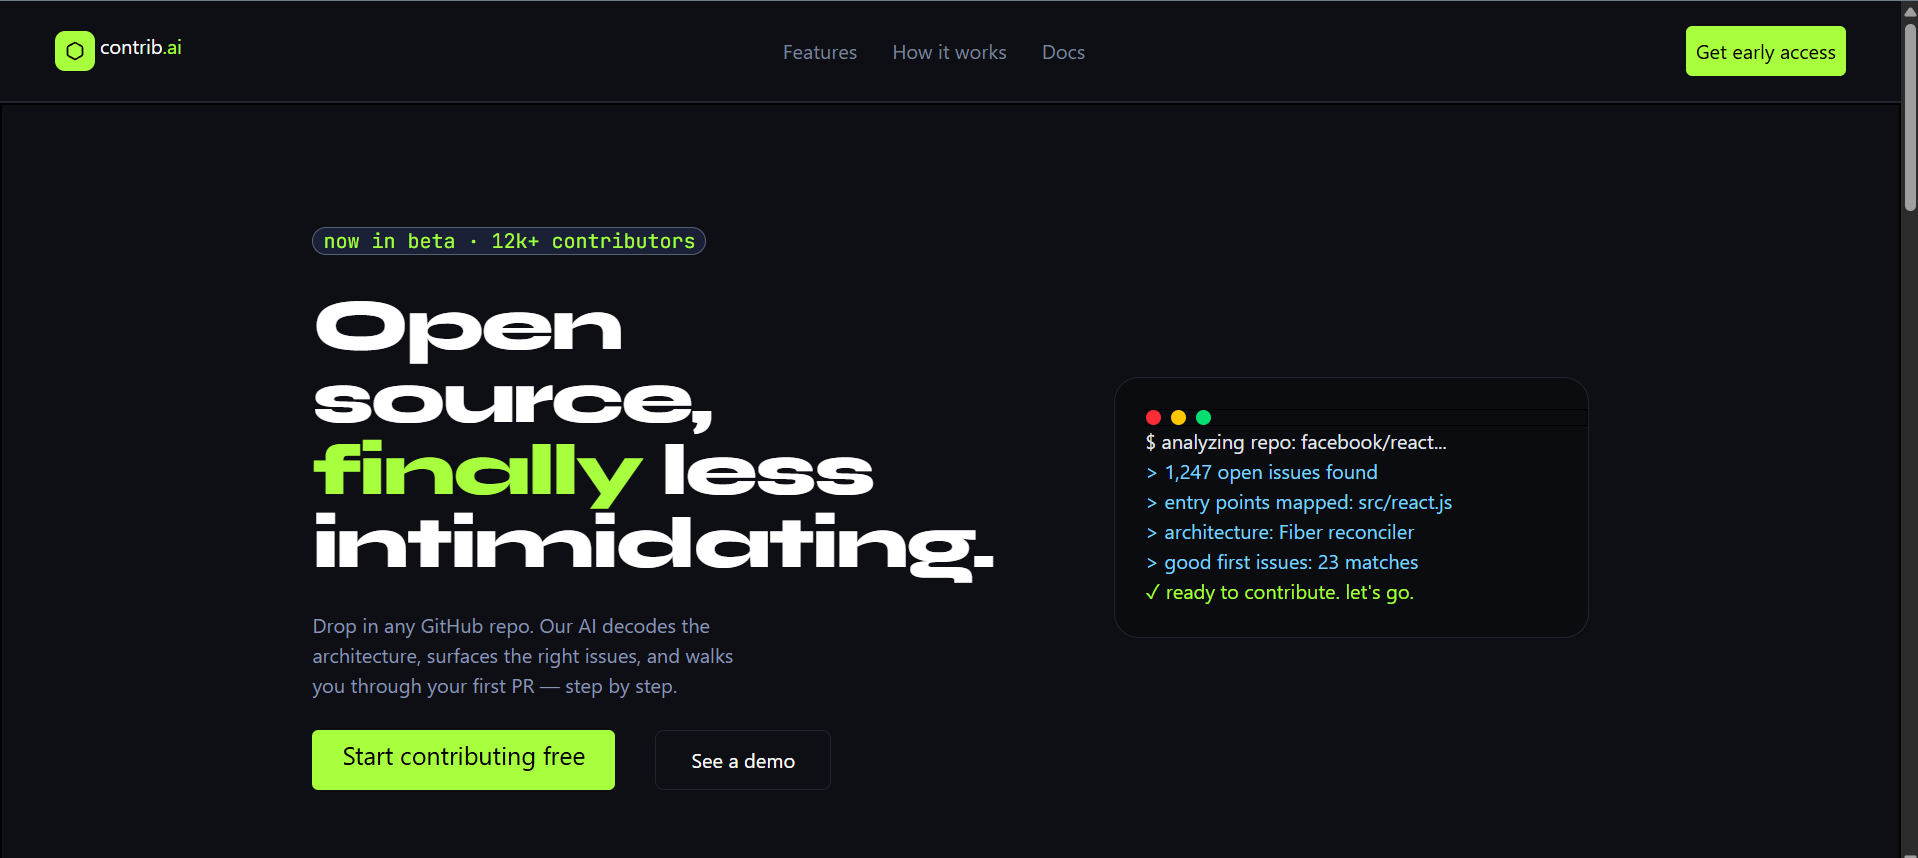
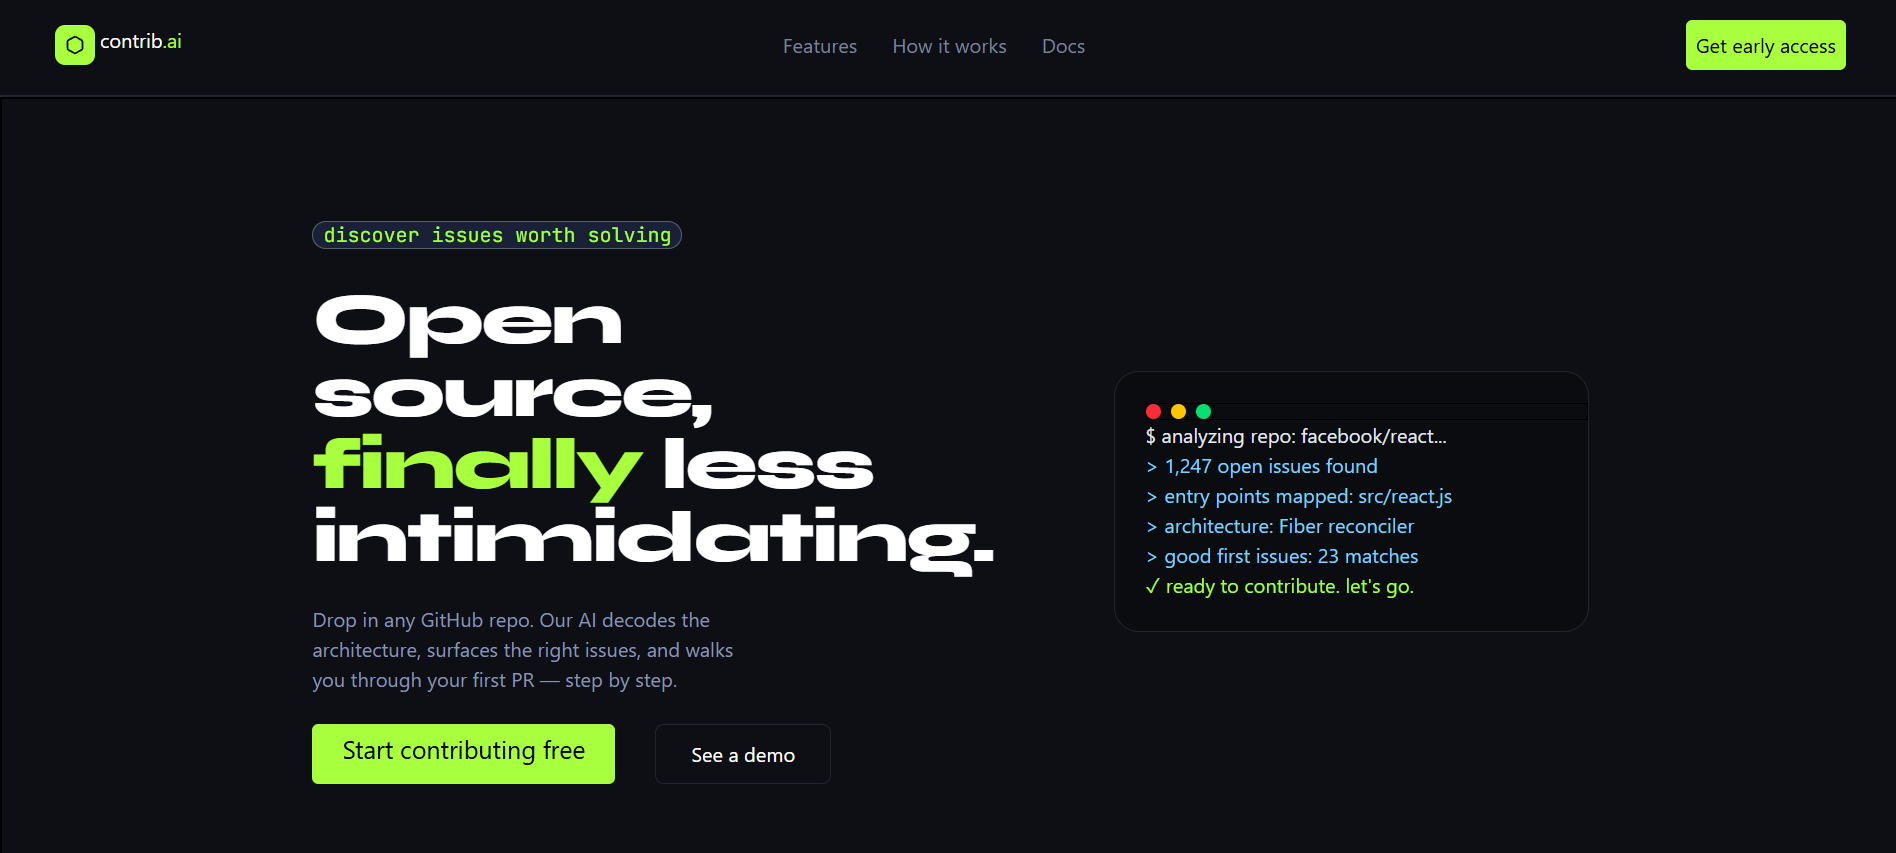
fix hero section

diff --git a/client/src/components/HeroSection.tsx b/client/src/components/HeroSection.tsx
@@ -13,7 +13,7 @@ function HeroSection() {
         {/* leftpart */}
         <div className=" pr-24 space-y-6 w- pt">
           {/* round icon */}
-          <span className="font-syne-jetBrains border bg-[#1a2035]  text-[#a8ff3e] px-2 border-[#556070] rounded-2xl">now in beta · 12k+ contributors</span>
+          <span className="font-syne-jetBrains border bg-[#1a2035]  text-[#a8ff3e] px-2 border-[#556070] rounded-2xl">discover issues worth solving</span>
           {/* main heading */}
           <div className="pt-[5%]  leading-none h-[60%] ">
             <span className="font-syne-ExtraBold text-[58px] tracking-[-0.03em] text-white ">Open</span>